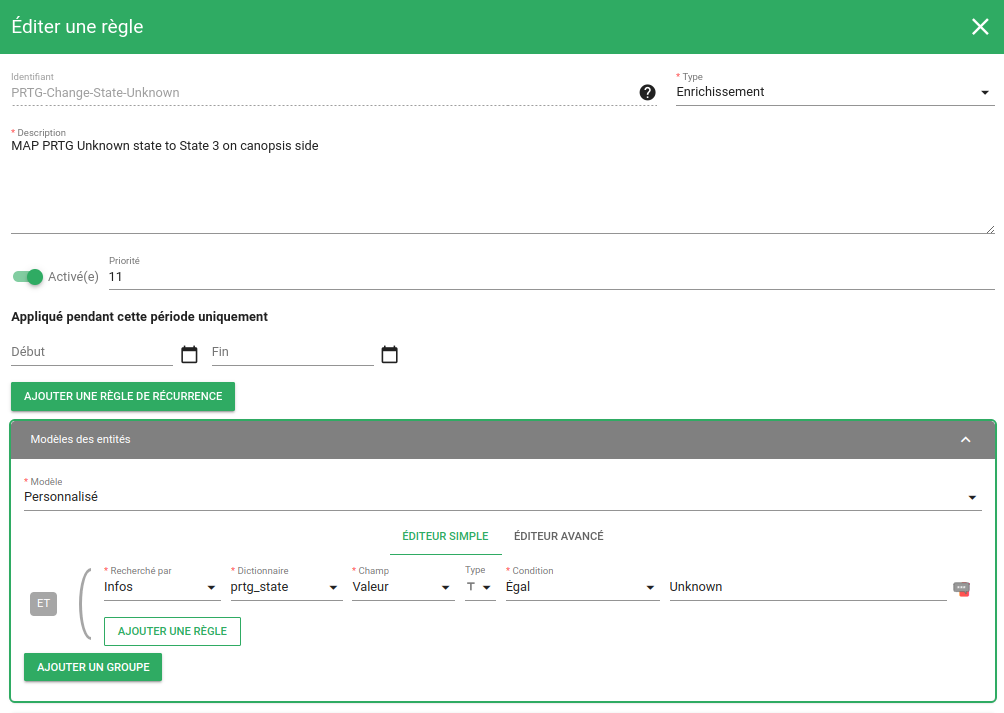
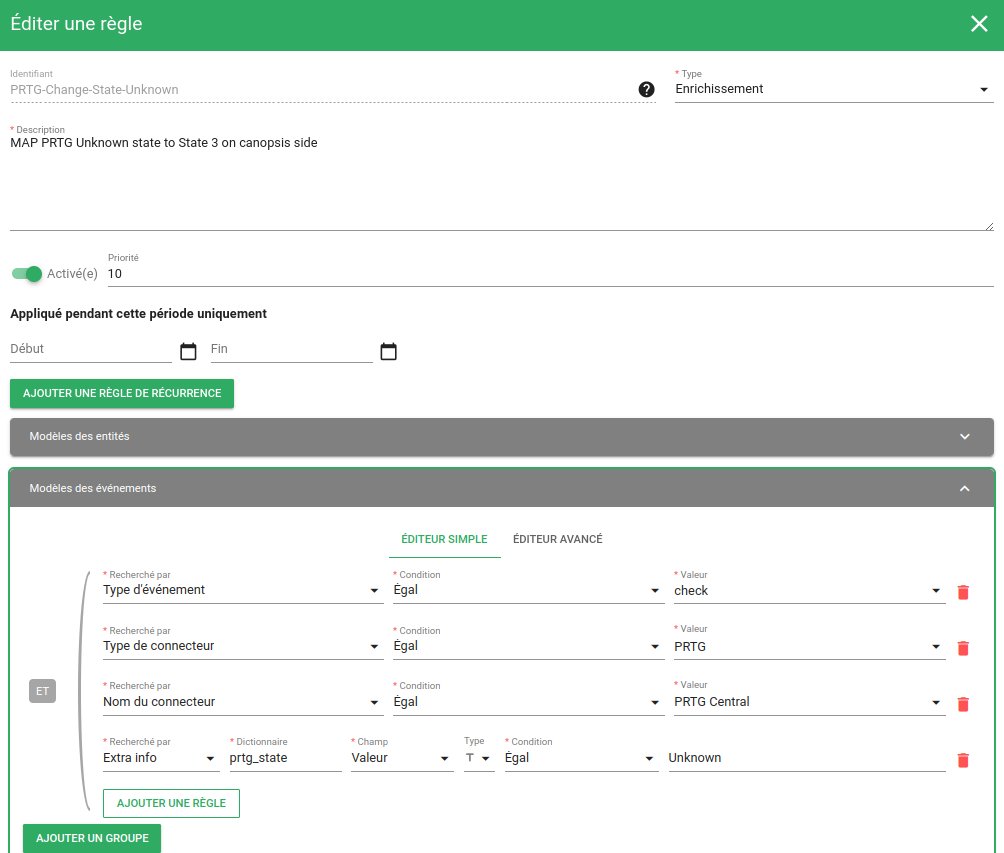
Improve doc without backing up info on entity side

Changed region(s): [[0.0, 0.3086, 1.0, 1.0], [0.0, 0.0, 1.0, 0.216], [0.6484, 0.8022, 0.9263, 0.8948]]

diff --git a/community/sources/docs/fr/interconnexions/Supervision/PRTG.md b/community/sources/docs/fr/interconnexions/Supervision/PRTG.md
@@ -60,28 +60,26 @@ Maintenant que PRTG envoie ses alertes vers Canopsis il faut les enrichir afin q
 
 Il faut pour cela créer une première règle d'enrichissment qui permet de sauvegarder un attribut spécifique à PRTG dans l'entitié Canopsis visée par l'alarme. 
 
-Pour cela rendez-vous sur 'Exploitation' -> 'Filtres d'événements' -> 'Créer une règle' ( en lui attribuant une priorité, `10` par exemple, ainsi qu'un filtre )
+Pour cela il faut se rendre sur le menu 'Exploitation' -> 'Filtres d'événements' -> 'Créer une règle' ( en lui attribuant une priorité : `10` par exemple )
 
-![Options pour la règle d'enrichissement de l'entitié](img/PRTG_enrichissement.png)
+Cette règle va contenir un pattern/filtre d'évènement permettant de détecter les alertes envoyées par PRTG de type `Unknown`.
 
-Il faudra ensuite ajouter une action afin de copier et sauvegarder dans l'entité visée par l'évènement la valeur de la criticité au sens PRTG ( elle est contenue dans une variable particulière de l'évènement : `{{ .Event.ExtraInfos.prtg_state }}` )
+![Options pour l'enrichissement de l'évènement](img/PRTG-regle-unknown-1.png)
 
-![Actions pour la copie de l'attribut dans l'entité](img/PRTG_enrichissement-action.png)
+Dans notre exemple, le statut `Unknown` de PRTG doit devenir une criticité `3/Critical` dans Canopsis. 
 
-Une fois cette règle créée, il reste à créer une règle par statut et par langue de PRTG. 
+![Action pour l'enrichissement de l'évènement](img/PRTG-regle-unknown-2.png)
 
-Exemple ici avec le statut `Unknown` de PRTG qui doit devenir une criticité `3/Critical` dans Canopsis. 
+Une fois ce type de règle créée, nous validons que les évènements `Unknown` de PRTG deviennent bien des alarmes `3/Critical` dans Canopsis
 
-Chaque règle doit avoir une priorité supérieure à la règle précédente ( ici nous utiliserons la priorité `11`)
+![Action pour l'enrichissement de l'évènement](img/PRTG-critical-alarm.png)
 
-![Options pour l'enrichissement de l'evènement](img/PRTG-regle-unknown-1.png)
+Il faut ensuite définir l'ensemble des règles réalisant les transformations des états PRTG vers les états connus par Canopsis.
 
-![Action pour l'enrichissement de l'alarme](img/PRTG-regle-unknown-2.png)
+Pour cela, il est possible de dupliquer les règles pour gagner du temps lors de l'élaboration de celles-ci :
 
-Ou avec cette autre règle de priorité `12` qui va faire correspondre le statut `Down` de PRTG en une criticité `2/Major` dans Canopsis
+Chaque règle doit avoir une priorité supérieure à la règle précédente ( ici nous utiliserons la priorité `11`) pour faire correspondre le statut `Down` de PRTG en une criticité `2/Major` dans Canopsis
 
 ![Options pour l'enrichissement de l'evènement](img/PRTG-regle-down-1.png)
 
 ![Action pour l'enrichissement de l'alarme](img/PRTG-regle-down-2.png)
-
-NB: Il est possible de dupliquer les règles pour gagner du temps lors de l'élaboration de celles-ci.

diff --git a/community/sources/docs/fr/interconnexions/index.md b/community/sources/docs/fr/interconnexions/index.md
@@ -34,6 +34,8 @@ Un connecteur permet d’envoyer à Canopsis des évènements à partir de sourc
 
 ### Supervision
 
+**⚠ Note : Seul SNMP V2 est supporté.**
+
 | **Nom** | **Source** | **Édition** | **Supporté** *(dans le cadre de mise à jour)* | **Compatibilité Canopsis** |
 |:-----:|:--------:|:---------:|:----------:|:-----------:|
 | [SNMP trap](Supervision/SNMPtrap.md) | Tout trap SNMP respectant la [RFC1157](https://www.rfc-editor.org/rfc/pdfrfc/rfc1157.txt.pdf) ou nécéssitant un traitement spécifique | Pro | Oui | Toutes versions |
